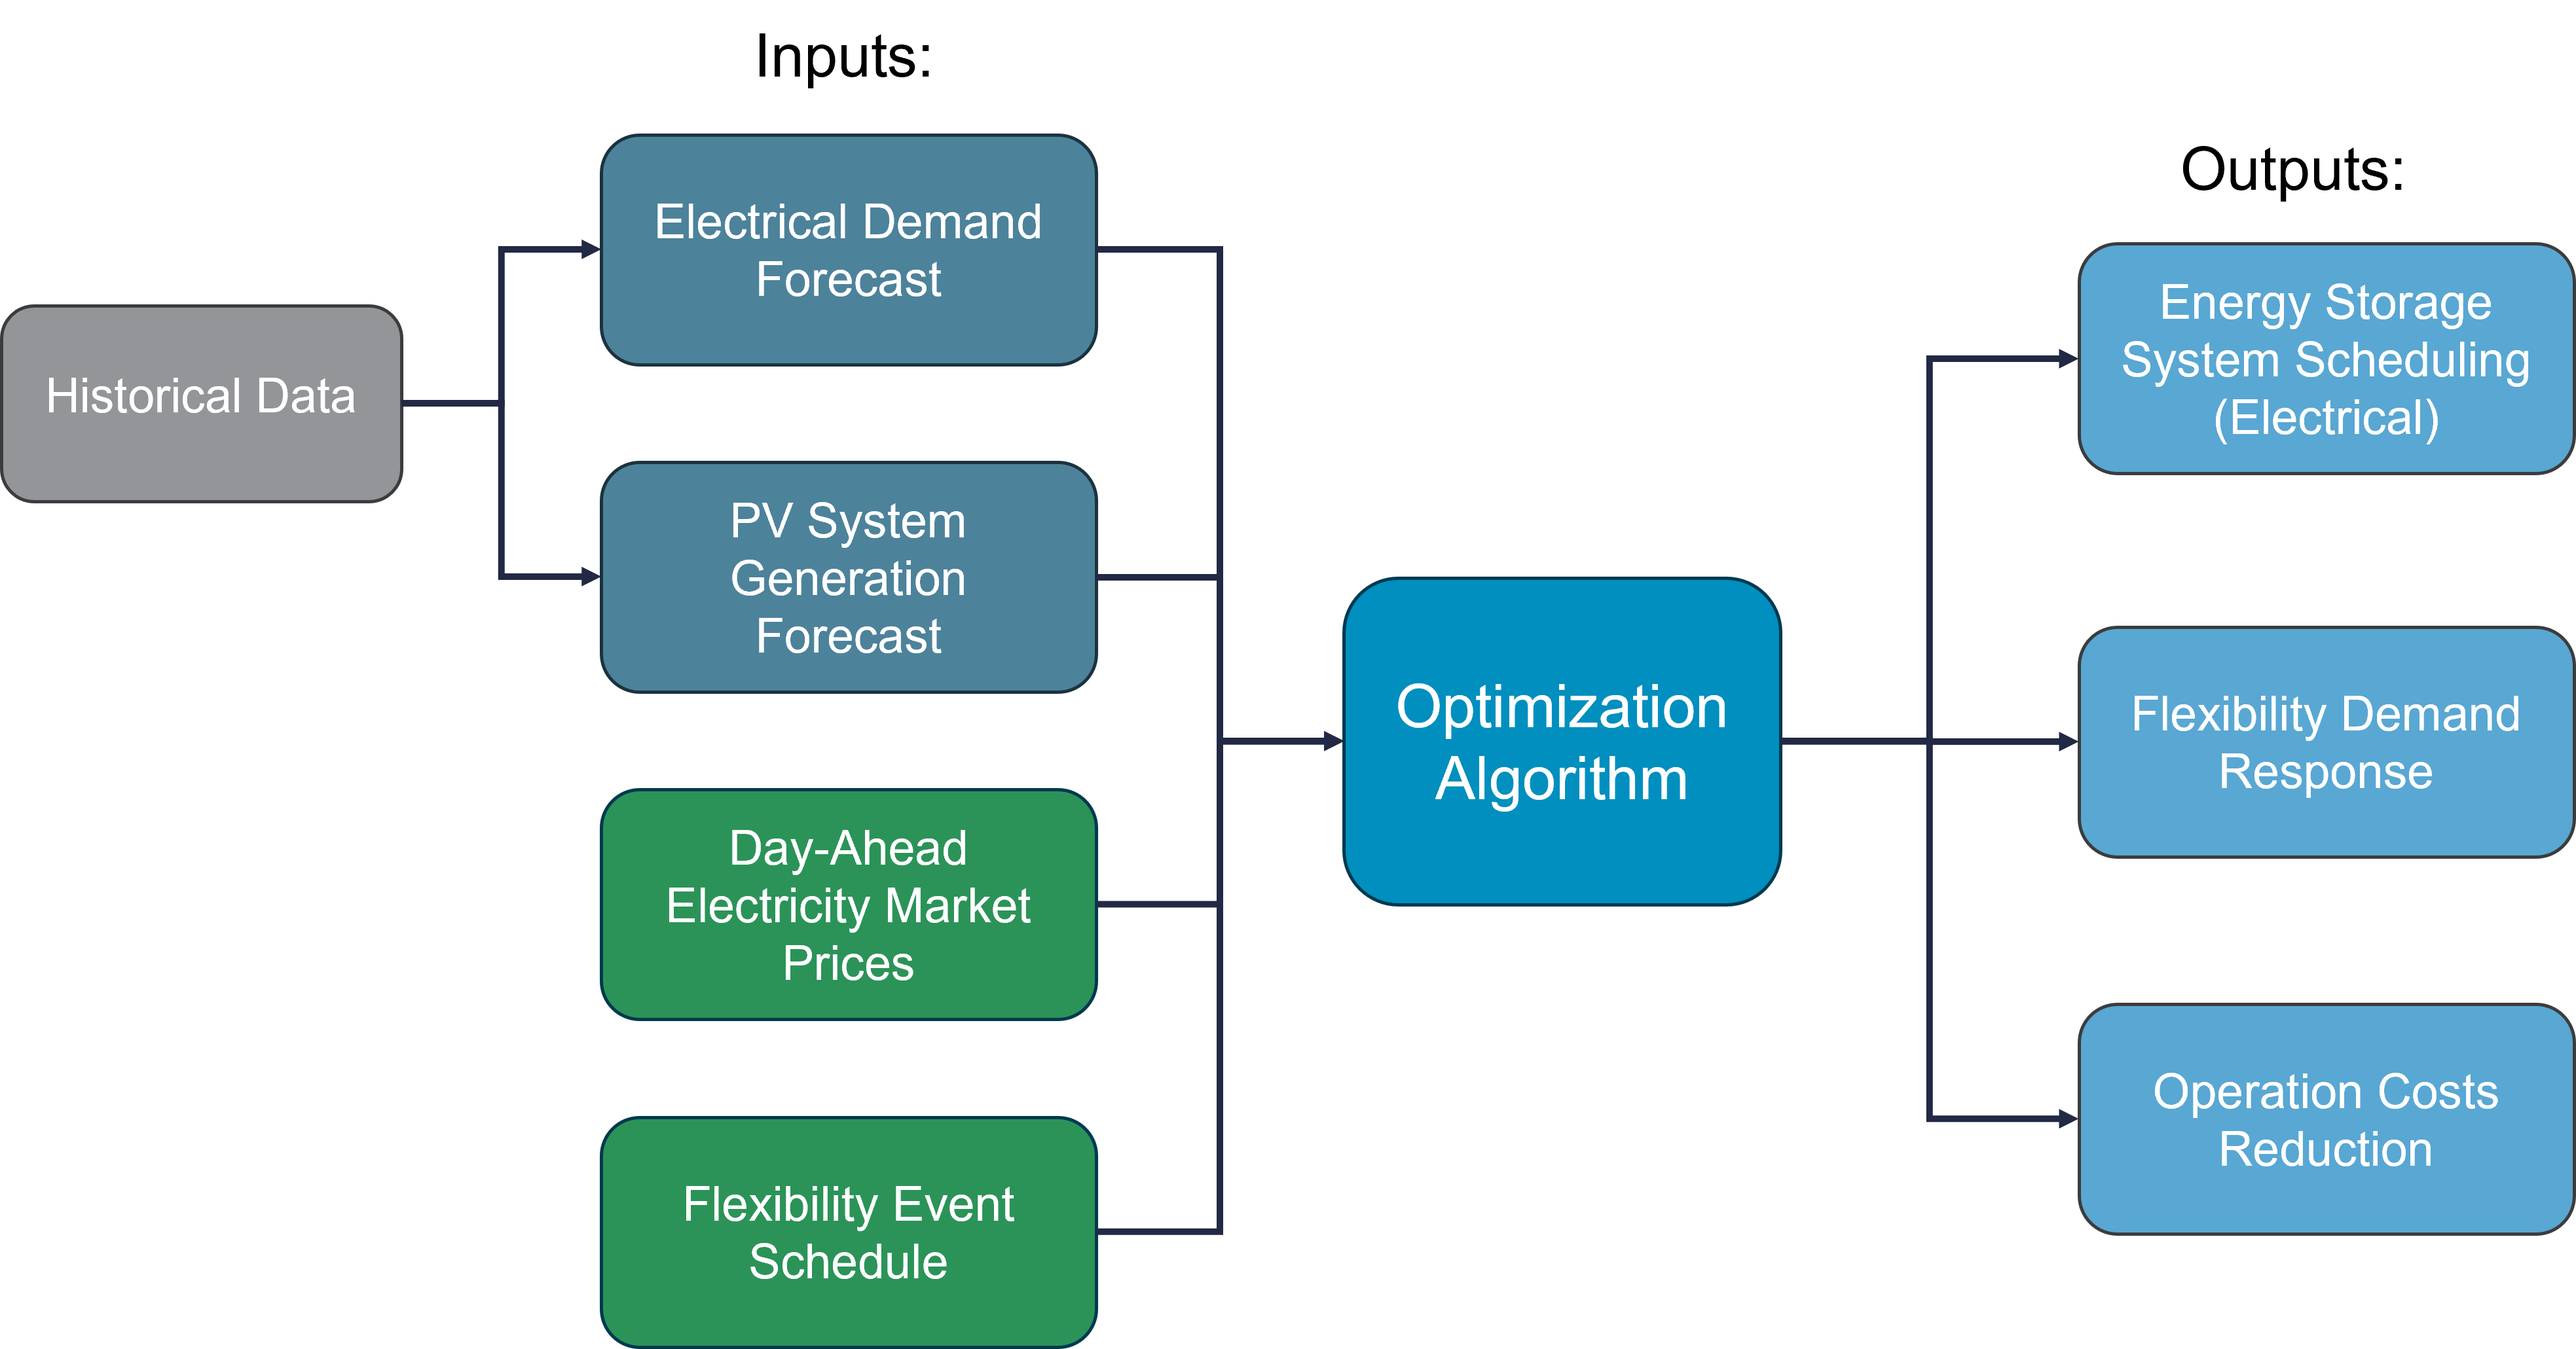
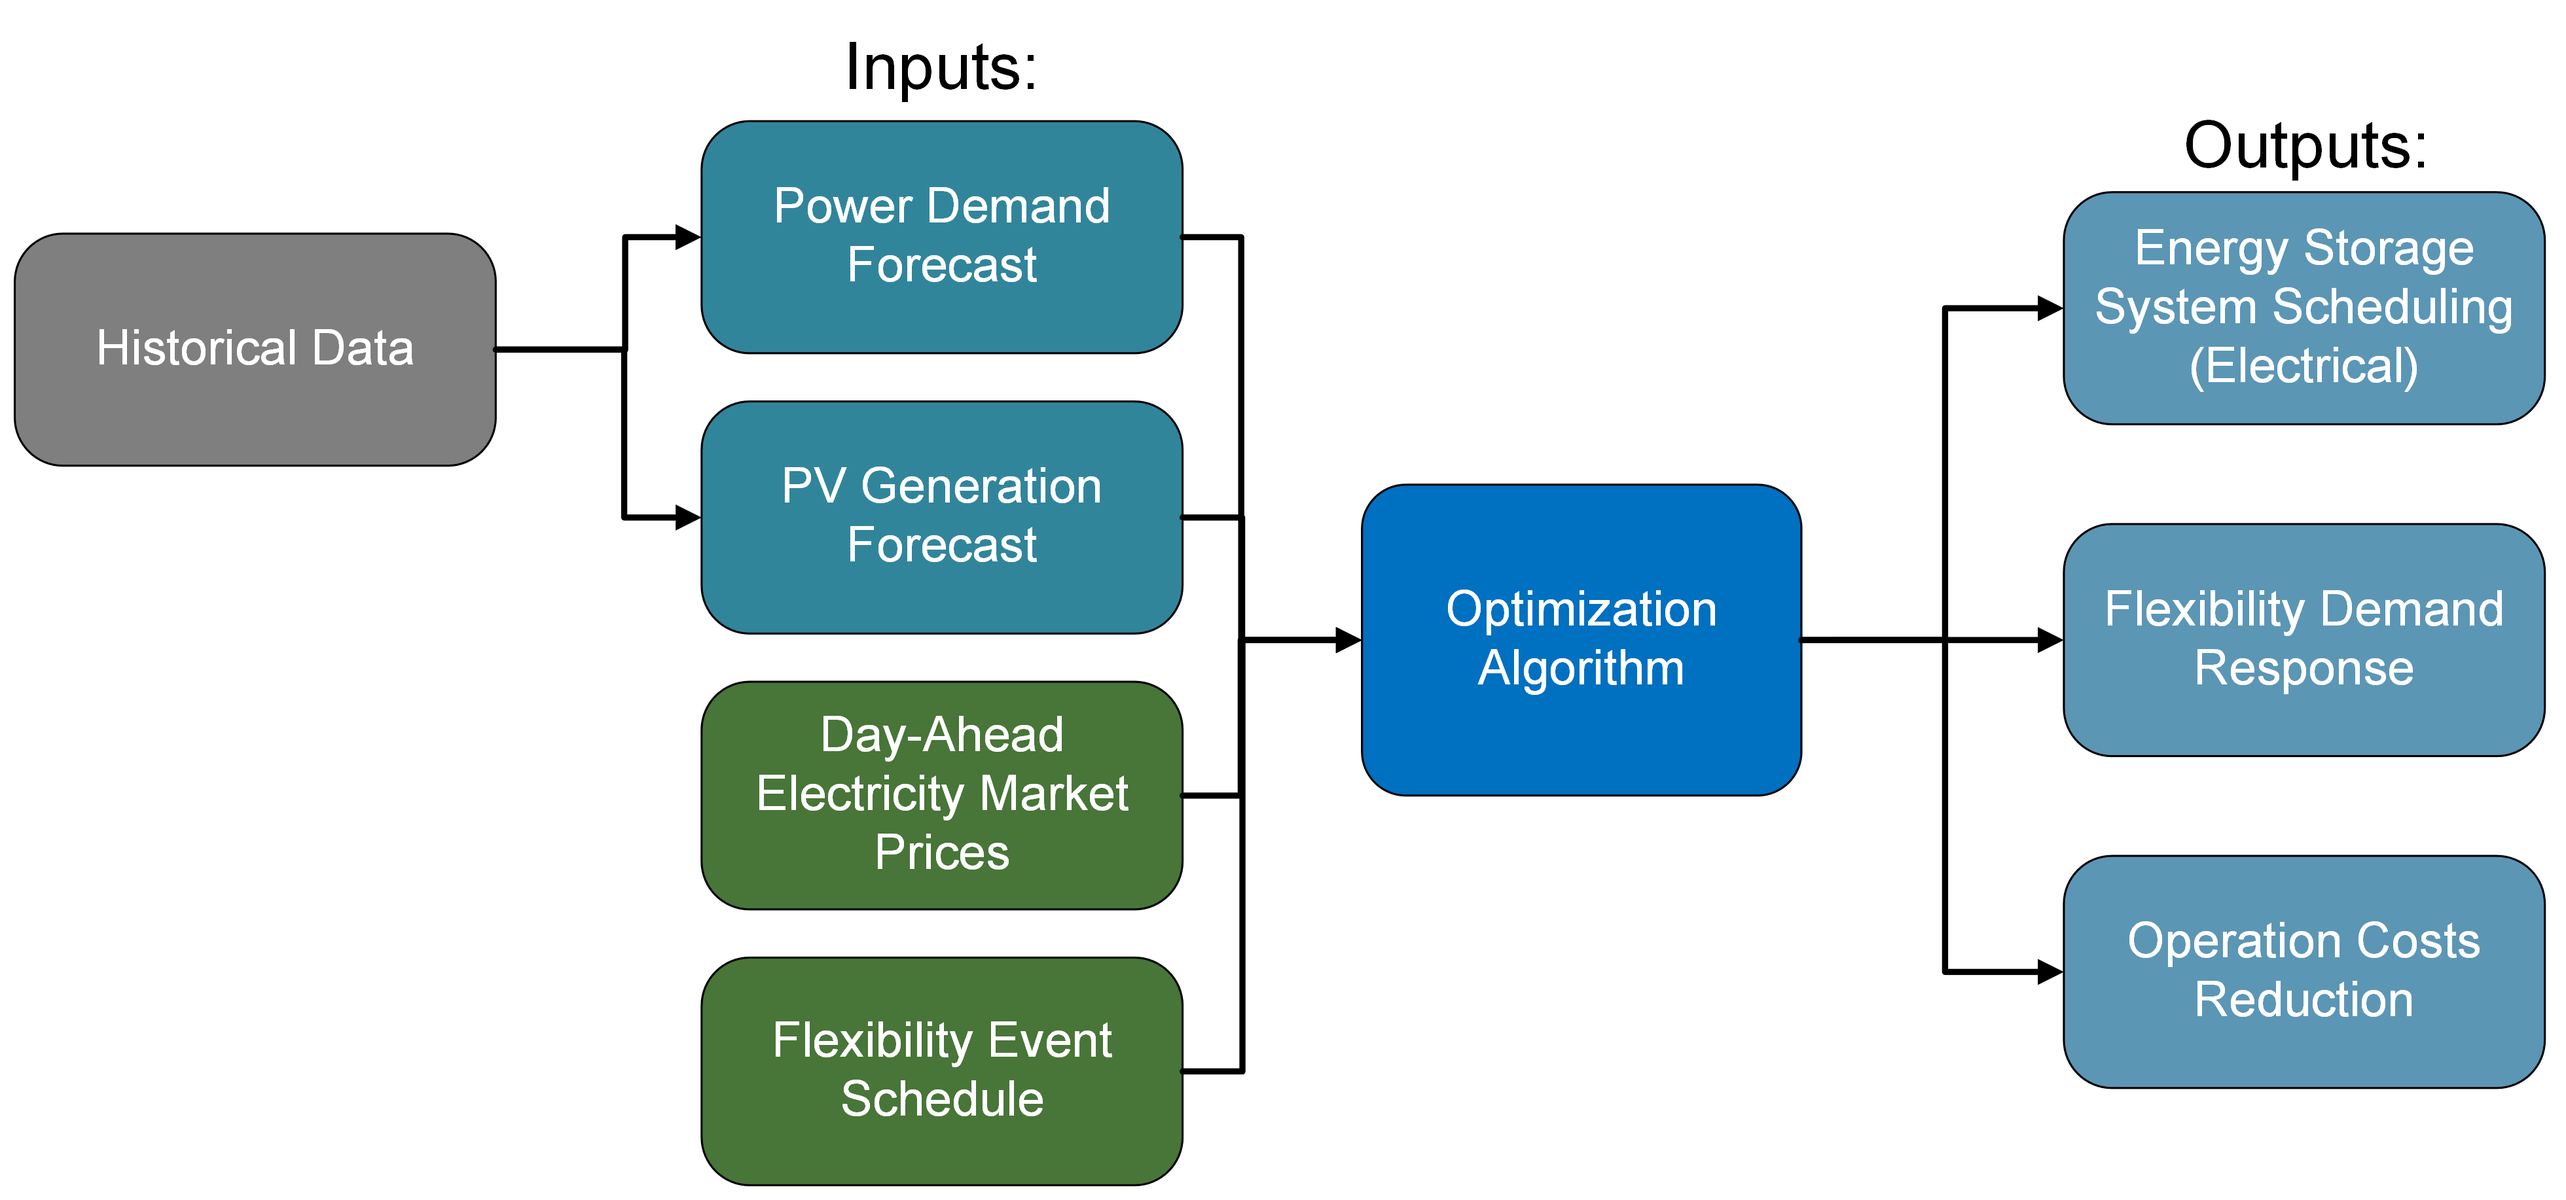
Update images

diff --git a/src/app.py b/src/app.py
@@ -342,7 +342,7 @@ app.layout = html.Div([
     
     dcc.Tabs(id='tabs', value='tab-1', 
             children=[
-                dcc.Tab(label='Power Demand and Generation Forecasting Algorithms', value='tab-1'),
+                dcc.Tab(label='Power Demand and PV Generation Forecasting Algorithms', value='tab-1'),
                 dcc.Tab(label='Energy Optimization Algorithm', value='tab-4'),
                 dcc.Tab(label='About', value='tab-3'),
                 
